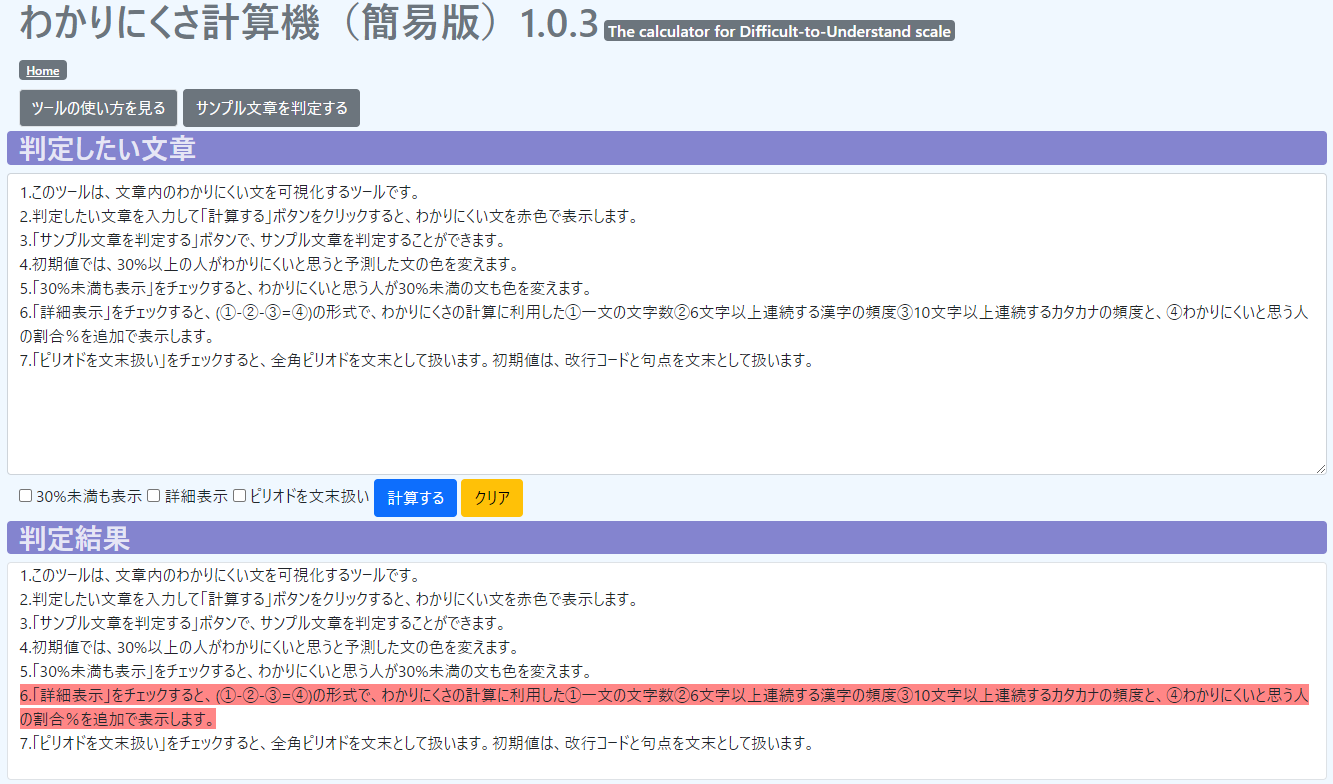
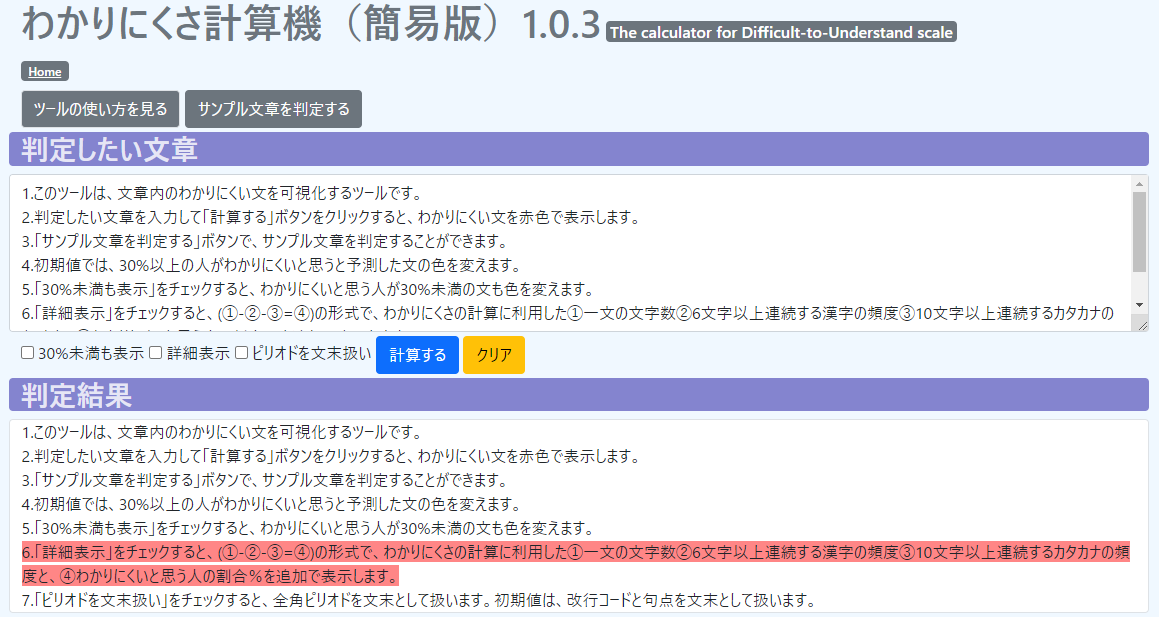
わかりにくさ計算機103

diff --git a/calculation.html b/calculation.html
@@ -21,15 +21,15 @@
     <meta property="og:url" content="https://oosakiken1.github.io/wakariyasuinihongo/calculation.html" />
     <meta property="og:image" content="https://oosakiken1.github.io/wakariyasuinihongo/image/calculation_sn.png" />
     <meta property="og:site_name" content=“多くの人にわかりやすい日本語” />
-    <meta property="og:description" content="日本人と外国人の双方にとってわかりにくいと思われる文を可視化するツール。入力されたテキストの構成要素から、わかりにくい文を文単位でハイライト表示します。" />
+    <meta property="og:description" content="文章内のわかりにくい文を可視化するライティング支援ツール。「多くの人にわかりやすい」という観点から文ごとのわかりにくさを推定し、わかりにくい文をハイライト表示します。" />
 
     <link href="https://cdn.jsdelivr.net/npm/bootstrap@5.0.2/dist/css/bootstrap.min.css" rel="stylesheet"
         integrity="sha384-EVSTQN3/azprG1Anm3QDgpJLIm9Nao0Yz1ztcQTwFspd3yD65VohhpuuCOmLASjC" crossorigin="anonymous">
     <link rel="stylesheet" href="style.css">
 
     <title>わかりにくさ計算機（簡易版）</title>
-    <meta name="description" content="日本人と外国人の双方にとってわかりにくいと思われる文を可視化するツール。入力されたテキストの構成要素から、わかりにくい文を文単位でハイライト表示します。" />
-    <meta name="keywords" content="無料,わかりやすい,わかりにくい,日本語,やさしい日本語,多文化共生,専門文書,仕様書" />
+    <meta name="description" content="文章内のわかりにくい文を可視化するライティング支援ツール。「多くの人にわかりやすい」という観点から文ごとのわかりにくさを推定し、わかりにくい文をハイライト表示します。" />
+    <meta name="keywords" content="無料,わかりやすい,わかりにくい,日本語,やさしい日本語,多文化共生,専門文書,システム仕様書,ライティング,作文,自律学習" />
 
 </head>
 
@@ -46,22 +46,27 @@
                 </div>
                 <div class="my-1">
                     <button type="button" class="btn border btn-secondary" data-bs-toggle="collapse"
-                        data-bs-target="#howto">ツールの使い方を見る</button>
+                        data-bs-target="#howto">ツールの使い方 How To</button>
                     <button id="sample" type="button" class="btn btn-secondary">サンプル文章を判定する</button>
                 </div>
 
                 <div class="collapse" id="howto">
                     <div class="card card-body my-1">
-                        <div id="howtotext">1.このツールは、文章内のわかりにくい文を可視化するツールです。<br>
-                            2.判定したい文章を入力して「計算する」ボタンをクリックすると、わかりにくい文を赤色で表示します。<br>
-                            3.「サンプル文章を判定する」ボタンで、サンプル文章を判定することができます。<br>
-                            4.初期値では、30%以上の人がわかりにくいと思うと予測した文の色を変えます。<br>
-                            5.「30%未満も表示」をチェックすると、わかりにくいと思う人が30%未満の文も色を変えます。<br>
-                            6.「詳細表示」をチェックすると、(①-②-③=④)の形式で、わかりにくさの計算に利用した①一文の文字数②6文字以上連続する漢字の頻度③10文字以上連続するカタカナの頻度と、④わかりにくいと思う人の割合％を追加で表示します。<br>
-                            7.「ピリオドを文末扱い」をチェックすると、全角ピリオドを文末として扱います。初期値は、改行コードと句点を文末として扱います。<br>
+                        <div id="howtotext">このツールは、文章内のわかりにくい文を可視化するライティング支援ツールです。<br>
+                            文章を書いている著者本人が、書いている文章の「わかりにくい」部分を見つけることは意外と難しいものです。<br>
+                            このツールでは、「多くの人にわかりやすい」という観点から文ごとのわかりにくさ（※）を推定し、わかりにくいと思われる文をハイライト表示してくれます。<br><br>
+                            <!-- 【使い方】<br> -->
+                            1.判定したい文章を入力して「計算する」ボタンをクリックすると、わかりにくい文を赤色で表示します。わかりにくい文をほど鮮明な色となります。<br>
+                            2.「判定基準」は、わかりにくいと思う割合の基準を指定します。初期値では、30%以上としています。<br>
+                            3.「詳細表示」をチェックすると、(①-②-③=④)の形式で、わかりにくさの計算に利用した①一文の文字数②6文字以上連続する漢字の頻度③10文字以上連続するカタカナの頻度と、④わかりにくいと思う人の割合％を追加で表示します。<br>
+                            4.「全角ピリオドを文末扱い」をチェックすると、ピリオドを文末として扱います。初期値は、改行コードと句点（マル）を文末として扱います。<br>
+                            5.「サマリー表示」をチェックすると、参考値として文章全体の文数(n)及び、わかりにくさ係数の平均(M)、標準偏差(SD)を表示します。<br>
+                            6.括弧内の句点はエスケープ処理（読点への置き換え）をします。ただし、括弧の入れ子には対応していません。「エスケープ前の確認」をチェックすると、エスケープの前にメッセージを表示します。<br>
+                            7.「サンプル文章を判定する」ボタンで、サンプル文章を判定できます。<br>
                             <hr>
-                            ※このツールで計算するわかりにくさ係数は、外国人と日本人を調査対象とした「システム仕様書の中の日本語のわかりにくさに関する調査」（大崎，2021a）に最適化したものです。<br>
-                            ※このツールの理論背景については、わかりにくさ係数の簡易な手法による推定（大崎，2021b）をご参照ください。<br>
+                            ※このツールで推定する「わかりにくさ係数」は、その文をわかりにくいと思う読み手の割合です。<br>
+                            　この係数は、外国人と日本人を調査対象とした「システム仕様書の中の日本語のわかりにくさに関する調査」（大崎，2021a）に最適化したものです。<br>
+                            　このツールの理論背景については、わかりにくさ係数の簡易な手法による推定（大崎，2021b）をご参照ください。<br>
                             <br>
                             大崎（2021a）「わかりやすい日本語に関する定量分析」李在鎬編『データ科学×日本語教育』第13章、ひつじ書房、246-267<br>
                             大崎（2021b）「専門文書内のわかりにくい文の推定―多文化共生社会に向けたライティング支援のための考察―」『計量国語学会第六十五回大会予稿集』1-6
@@ -75,20 +80,36 @@
         <main>
             <div class="row">
                 <h3 class="bgblue rounded">判定したい文章</h3>
-                <textarea id="text" class="form-control" rows="12" placeholder="テキストを入力してください"
+                <textarea id="text" class="form-control" rows="10" placeholder="判定したいテキストを入力してください"
                     style="width:100%;"></textarea>
                 <div class="my-1">
-                    <label>
+                    判定基準
+                    <select id="limit">
+                        <option value="40">40%</option>
+                        <option value="30" selected>30%</option>
+                        <option value="25">25%</option>
+                        <option value="20">20%</option>
+                        <option value="0">すべて</option>
+                    </select>
+                    <!-- <label>
                         <input type="checkbox" value="" id="limit">
-                        30%未満も表示
-                    </label>
+                        25%未満も表示
+                    </label> -->
                     <label>
                         <input type="checkbox" value="" id="detail">
                         詳細表示
                     </label>
                     <label>
-                        <input type="checkbox" value="" id="period">
-                        ピリオドを文末扱い
+                        <input type="checkbox" value="" id="useperiod">
+                        全角ピリオドを文末扱い
+                    </label>
+                    <label>
+                        <input type="checkbox" value="" id="dispsummary">
+                        サマリー表示
+                    </label>
+                    <label>
+                        <input type="checkbox" value="" id="confirmescape">
+                        エスケープの確認
                     </label>
                     <button id="execute" type="button" class="btn btn-primary">計算する</button>
                     <button id="clear" type="button" class="btn btn-warning">クリア</button>
@@ -96,6 +117,9 @@
             </div>
             <div class="row">
                 <h3 class="bgblue rounded">判定結果</h3>
+                <h3 id="summary" class="bggreen rounded d-none">
+                    <p></p>
+                </h3>
                 <div id="result" class="border rounded bg-white">
                     <p></p>
                 </div>
@@ -105,7 +129,7 @@
         <footer>
             <hr>
             <div class="row">
-                <p>本ツールは研究・教育のための利用に限定します。本ツールを利用した論文・記事・発表をされる場合、本ツールを利用した旨を明記ください。商用でのご利用はご遠慮ください。
+                <p>本ツールは研究・教育・学習のための利用に限定します。本ツールを利用した論文・記事・発表をされる場合、本ツールを利用した旨を明記ください。商用でのご利用はご遠慮ください。
                 </p>
                 <p>Copyright 2021 Kenichi Oosaki.</p>
             </div>

diff --git a/calculation.js b/calculation.js
@@ -1,26 +1,65 @@
 const DIV_TEXT = document.getElementById("text");
 const DIV_HOWTO = document.getElementById("howtotext");
 const DIV_RESULT = document.getElementById("result");
+const DIV_SUMMARY = document.getElementById("summary");
 const BTN_SAMPLE = document.getElementById("sample");
 const BTN_EXEC = document.getElementById("execute");
 const BTN_CLEAR = document.getElementById("clear");
-const CHK_LIMIT = document.getElementById("limit");
+const SELECT_LIMIT = document.getElementById("limit");
 const CHK_DETAIL = document.getElementById("detail");
-const CHK_PERIOD = document.getElementById("period");
+const CHK_PERIOD = document.getElementById("useperiod");
+const CHK_SUMMARY = document.getElementById("dispsummary");
+const CHK_ESCAPE = document.getElementById("confirmescape");
+
 
 BTN_EXEC.onclick = function () {
-    gtag('event', 'exec-calc', {'event_category': 'execute'});
+    gtag('event', 'exec-calc', { 'event_category': 'execute' });
 
-    const text = DIV_TEXT.value.replace(/\r\n|\r/g, '\n');
-    var resultText = '';
+    const limit = parseInt(SELECT_LIMIT.value) / 100;
+    let text = DIV_TEXT.value.replace(/\r\n|\r/g, '\n');
+    let resultText = '';
+
+    const eosPeriod = text.match(/．\n/g);
+    if (!CHK_PERIOD.checked && eosPeriod !== null && confirm(`ピリオド直後の改行が ${eosPeriod.length} 箇所あります。ピリオドを文末として扱いますか？`)) {
+        CHK_PERIOD.checked = true;
+    }
+
+    // const parenthesesPeriod = text.match(/([(（「][^()（）「」]*。[^()（）「」]*[)）」]|[(（「][^()（）「」]*。|。[^()（）「」]*[)）」])/g);
+
+    let parenthesesReg = null;
+    if (CHK_PERIOD.checked) {
+        parenthesesReg = /[(（「『【][^()（）「」『』【】]*[。．][^()（）「」『』【】]*[)）」』】]/g;
+    } else {
+        parenthesesReg = /[(（「『【][^()（）「」『』【】]*。[^()（）「」『』【】]*[)）」』】]/g;
+    }
+
+    const matches = [];
+    // const parenthesesPeriods = text.matchAll(parenthesesReg);
+    for (let match of text.matchAll(parenthesesReg)) {
+        matches.push([match[0],match.index]);
+    }
+ 
+    if (matches.length !== 0) {
+        if(!CHK_ESCAPE.checked || confirm(`括弧内の句点が ${matches.length} 箇所あります。この句点をエスケープしてよいですか？\n${matches}`)) {
+            for (let [match,index] of matches) {
+                if (CHK_PERIOD.checked) {
+                    match = match.replaceAll(/[。．]/g,'、');
+                } else {
+                    match = match.replaceAll(/[。]/g,'、');
+                }
+                text = text.substring(0,index) + match + text.substring(index + match.length);
+            }
+        }
+    }
 
     const lines = text.split('\n');
+    const results = [];
 
     for (const line of lines) {
-        var sentenceReg = null;
-        if  (CHK_PERIOD.checked) {
+        let sentenceReg = null;
+        if (CHK_PERIOD.checked) {
             sentenceReg = /[^。．]*[。．]*/g;
-        }  else {
+        } else {
             sentenceReg = /[^。]*。*/g;
         }
 
@@ -32,28 +71,38 @@ BTN_EXEC.onclick = function () {
             const kanji6 = countKanji6(sentence);
             const kana10 = countKana10(sentence);
             const wakarinikusaIndex = 0.0030933 + sentenceLength * 0.0028964 + kanji6 * 0.0753041 + kana10 * 0.2166971;
+            results.push(wakarinikusaIndex);
 
-            if (wakarinikusaIndex >= 0.30 || CHK_LIMIT.checked) {
- 
+            if (wakarinikusaIndex >= limit) {
+
                 if (CHK_DETAIL.checked) {
                     const detailText = `<span style="font-size:50%">(${sentenceLength}-${kanji6}-${kana10}=${Math.round(wakarinikusaIndex * 100) / 100})</span>`;
                     resultText = resultText + detailText;
                 }
-     
-                const colorIndex = Math.round(256 * Math.max(0,(1 - wakarinikusaIndex)));
-                resultText = resultText + `<span style="background-color:rgb(255,${colorIndex},${colorIndex});">${sentence}</span>`;
+
+                const colorIndex = Math.round(256 * Math.max(0, (1 - wakarinikusaIndex)));
+                resultText = resultText + `<span style="background-color:rgb(255,${colorIndex},${colorIndex});">${escapeHTML(sentence)}</span>`;
             } else {
-                resultText = resultText + `<span>${sentence}</span>`;
+                resultText = resultText + `<span>${escapeHTML(sentence)}</span>`;
             }
         }
         resultText = resultText + '<br>';
     }
 
     DIV_RESULT.innerHTML = resultText;
+
+    if (CHK_SUMMARY.checked) {
+        DIV_SUMMARY.classList.remove("d-none");    
+    } else {
+        DIV_SUMMARY.classList.add("d-none");    
+    }
+
+    const [mean, sd] = calcMeanSd(results);
+    DIV_SUMMARY.innerHTML = `わかりにくさ係数(n=${results.length}, M=${floor3(mean)}, SD=${floor3(sd)})`;
 };
 
 function countKana10(str) {
-    var strs = str.match(/[ァ-ンー]{10,}/g);
+    let strs = str.match(/[ァ-ンーｧ-ﾝｰ]{10,}/g);
     if (strs === null) {
         return 0;
     } else {
@@ -65,7 +114,7 @@ function countKanji6(str) {
     // var strs = str.match(/([\u3005\u3007\u303b\u3400-\u9FFF\uF900-\uFAFF\u20000-\u2FFFF][\uE0100-\uE01EF\uFE00-\uFE02]){2,}/g);
     // var strs = str.match(/([\u3005\u3007\u303b\u3400-\u49FFF\uF900-\uFAFF\u20000-\u2FFFF]{6,})/g);
     // var strs = str.match(/[\u3005\u3007\u303b\u4e00-\u9fcf\u3400-\u4dbf\uF900-\uFAdF\u20000-\u2a6df\u2f800-\u2fa1f]{6,}/g);
-    var strs = str.match(/[\u3005\u3007\u4E00-\u9FFF]{6,}/g);
+    let strs = str.match(/[\u3005\u3007\u4E00-\u9FFF]{6,}/g);
 
     if (strs === null) {
         return 0;
@@ -77,9 +126,43 @@ function countKanji6(str) {
 BTN_CLEAR.onclick = function () {
     DIV_TEXT.value = "";
     DIV_RESULT.innerHTML = "<p></p>";
+    DIV_SUMMARY.innerHTML = "<p></p>";
 };
 
 BTN_SAMPLE.onclick = function () {
-    DIV_TEXT.value = DIV_HOWTO.innerText.replace(/ /g,'');
+    DIV_TEXT.value = DIV_HOWTO.innerText.replace(/ /g, '');
     BTN_EXEC.click();
+};
+
+function calcMeanSd(data) {
+    // 平均値を計算
+    let sum = 0;
+    data.forEach((x, index) => sum += x);
+    const mean = sum / data.length;
+
+    // 分散を計算
+    let dist = 0;
+    data.forEach((x, index) => dist += (x - mean) ** 2);
+
+    // 平方根を求めて標準偏差を計算する
+    const sd = Math.sqrt(dist / data.length);
+    return [mean, sd];
+}
+
+function floor3 (num) {
+    return Math.floor(num *1000)/1000;
+}
+
+/**
+ * HTMLエスケープ
+ * 
+ * @param {String} str 変換したい文字列
+ */
+var escapeHTML = function (str) {
+    return str
+            .replace(/&/g, '&amp;')
+            .replace(/</g, '&lt;')
+            .replace(/>/g, '&gt;')
+            .replace(/"/g, '&quot;')
+            .replace(/'/g, '&#39;');
 };

diff --git a/typing.html b/typing.html
@@ -36,7 +36,6 @@
     <audio id="audiocount" src="sound33.mp3" type="audio/mp3" preload="auto"></audio>
     <audio id="audiomiss" src="sound40.mp3" type="audio/mp3" preload="auto"></audio>
 
-
     <title>多くの人に使いやすいローマ字タイピング</title>
     <meta name="description" content="ウェブ上で無料のタイピング練習ができます。大きな文字でとても見やすい作りになっています。例文は日本語能力試験（JLPT）に対応しています。小さい字が苦手な方、留学生など日本語を勉強している方におすすめです。" />
     <meta name="keywords" content="無料,ローマ字,タイピング,練習,見やすい,大きな文字,留学生,外国人,日本語学習者,日本語能力試験,JLPT,N1,N2,N3,typing" />
@@ -361,7 +360,7 @@
         <footer>
             <hr>
             <div class="row">
-                <p>本ツールは研究・教育のための利用に限定します。本ツールを利用した論文・記事・発表をされる場合、本ツールを利用した旨を明記ください。商用でのご利用はご遠慮ください。</p>
+                <p>本ツールは研究・教育・学習のための利用に限定します。本ツールを利用した論文・記事・発表をされる場合、本ツールを利用した旨を明記ください。商用でのご利用はご遠慮ください。</p>
                 <p>出典　日本語能力試験公式ウェブサイト(<a href="https://www.jlpt.jp/">https://www.jlpt.jp/</a>)</p>
                 <p>Copyright 2021 Kenichi Oosaki.</p>
             </div>

diff --git a/index.html b/index.html
@@ -28,7 +28,7 @@
             <div class="row my-2">
                 <img src=".\image\464629_s.jpg" alt="">
                 <h1 class="text-secondary">多くの人にわかりやすい日本語<span class="h6 rounded bg-secondary text-white mx-1 px-1">Easy-to-Understand
-                        Japanese</span></h1>
+                        Japanese for all people</span></h1>
             </div>
         </header>
 
@@ -38,7 +38,8 @@
                 <div class="w-100"></div>
                 <div class="col mb-2 overflow-auto border rounded bg-white" style="height: 100px;">
                     <ul>
-                        <li>日本語を勉強する人のためのローマ字タイピングV0.0.2を仮公開しました。2022-2-24</li>
+                        <li>わかりにくさ計算機（簡易版）v1.0.3を公開しました。判定基準、サマリー表示、エスケープ処理の追加及び、不具合修正を行いました。2022-03-11</li>
+                        <li>日本語を勉強する人のためのローマ字タイピングV0.0.4を仮公開しました。2022-2-24</li>
                         <li>日本語文章を自動評価するWebツール一覧を公開しました。2022-2-24</li>
                         <li>日本語文章を自動評価するWebツール一覧を仮公開しました。2021-12-05</li>
                         <li>わかりにくさ計算機（簡易版）v1.0.2を公開しました。引用文献を修正しました。2021-11-28</li>
